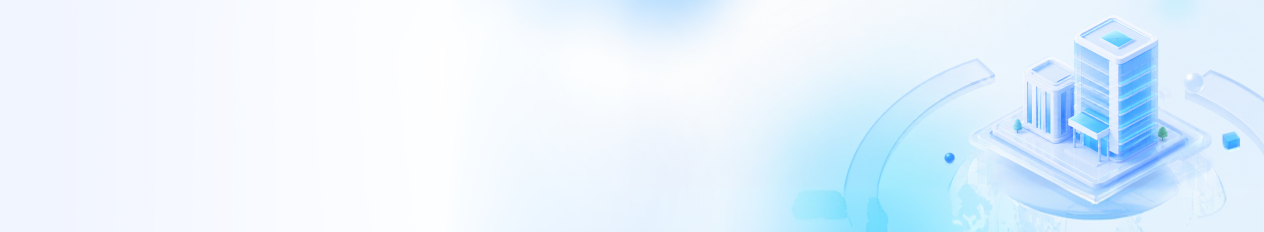
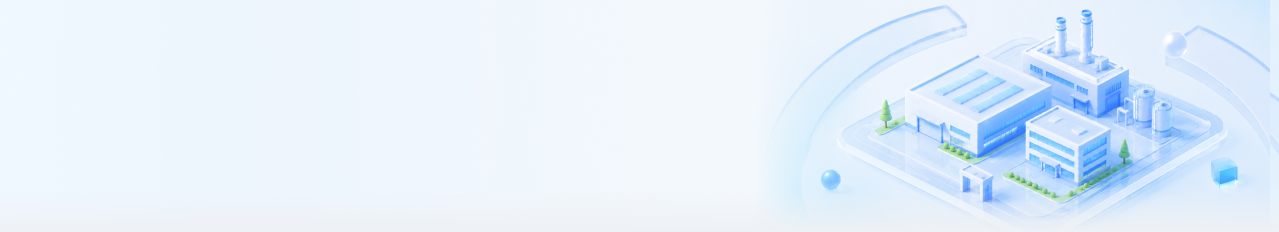
fix: 修改图片

diff --git a/src/hooks/Echarts/useEcharts.ts b/src/hooks/Echarts/useEcharts.ts
@@ -1,5 +1,5 @@
 import echarts from "./library"
-import { Ref, onMounted, onUnmounted, unref } from 'vue'
+import { Ref, onMounted, onUnmounted, unref, watch } from 'vue'
 import { debounce } from 'lodash-es'
 
 export const useEcharts = (el: Ref<HTMLDivElement | undefined>, props: any = {}) => {
